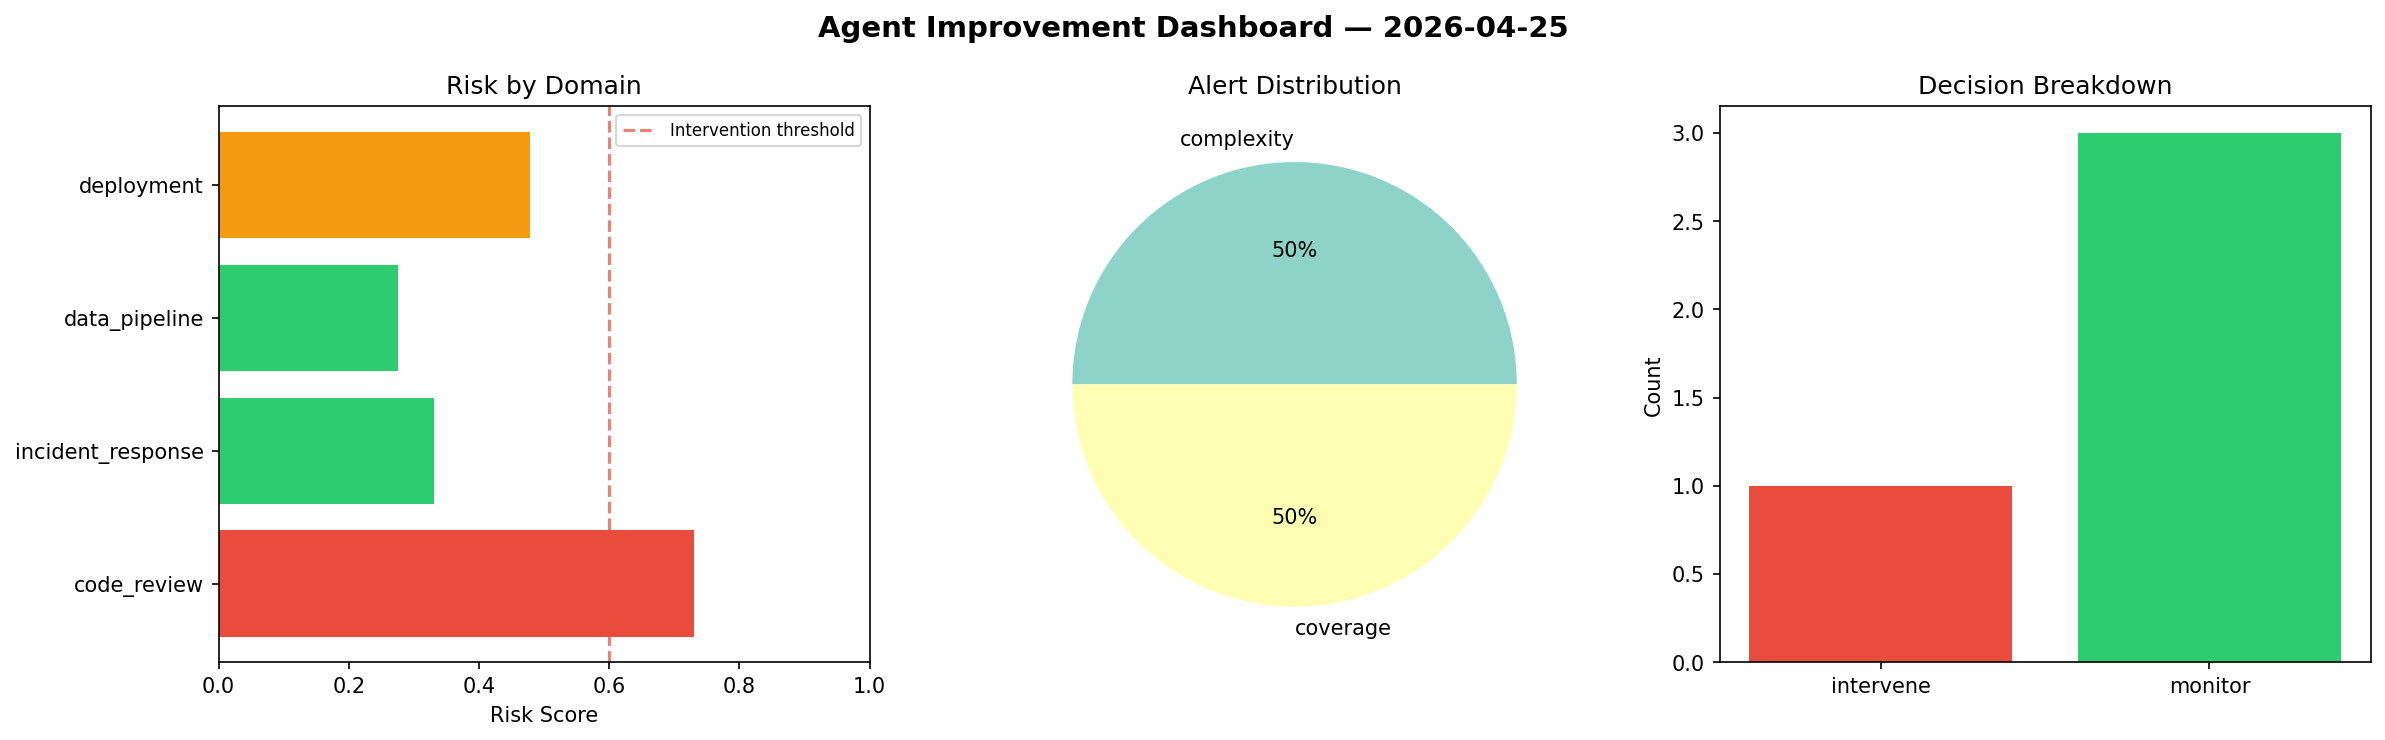
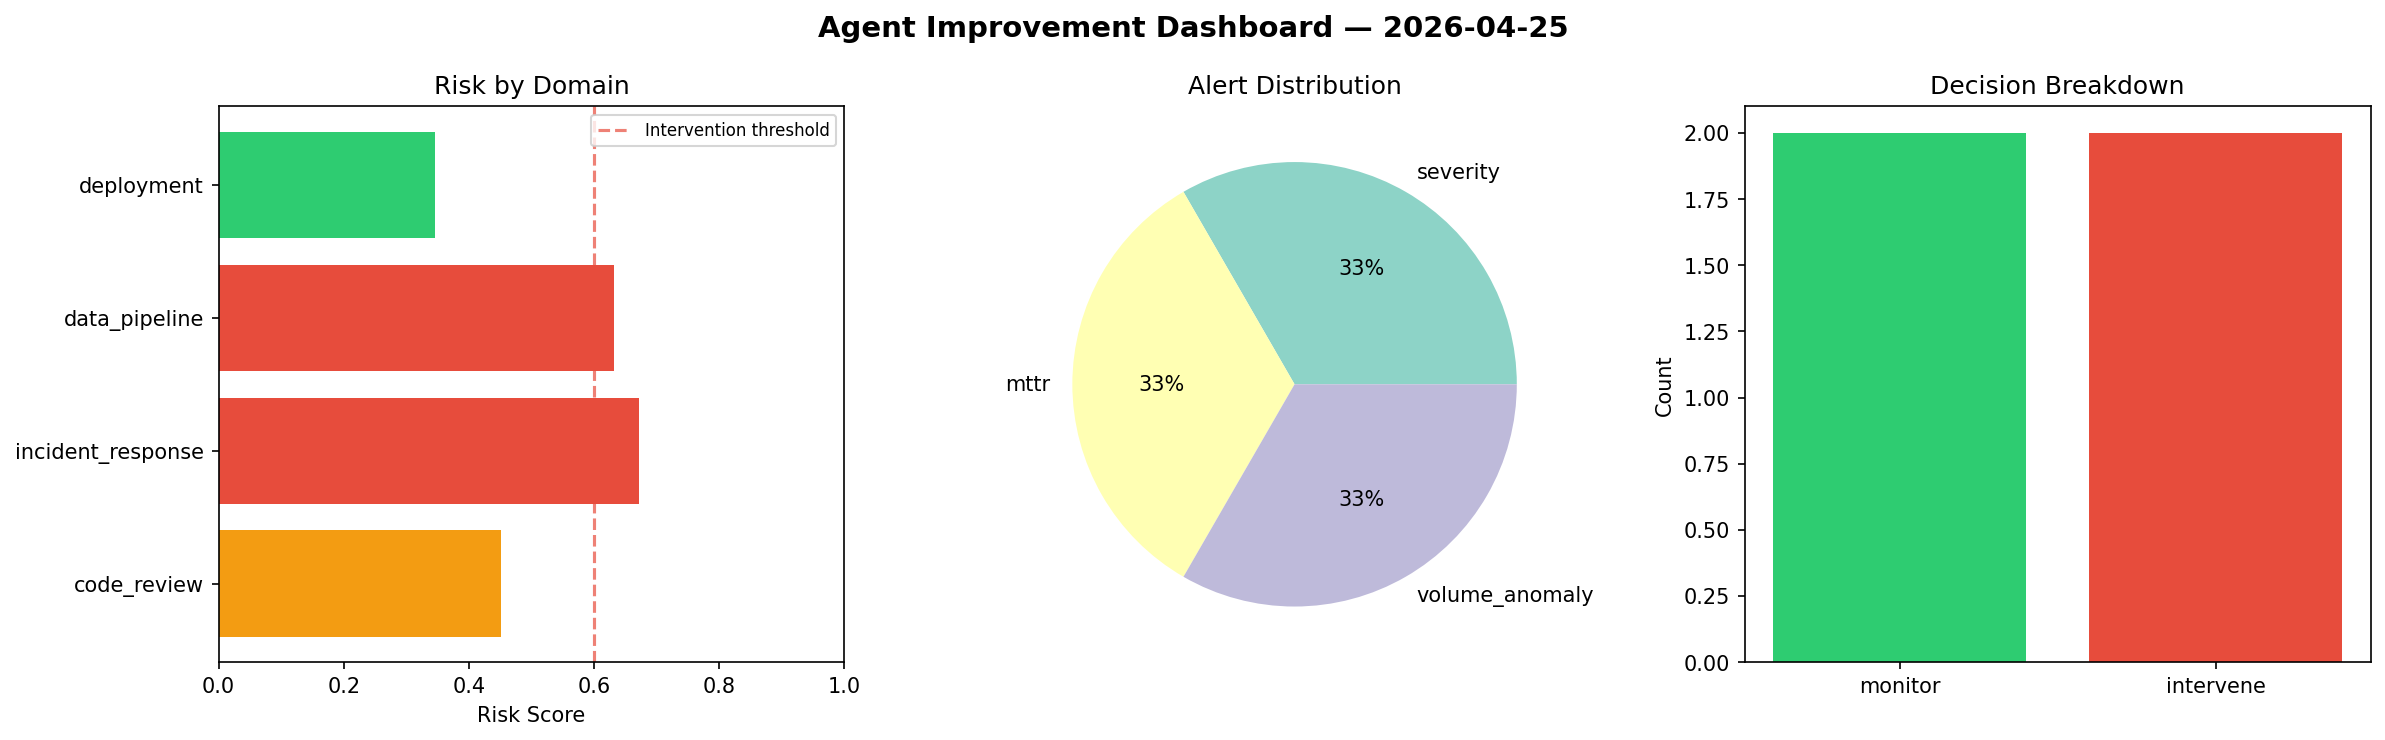
agent-improvement: daily cycle 2026-04-25T20:56

diff --git a/logs/2026-04-25.md b/logs/2026-04-25.md
@@ -1,6 +1,6 @@
 # Agent Improvement Report — 2026-04-25
 
-**Cycle ID:** `b862a2e6` | **Avg Risk:** 0.4538 | **Interventions:** 1/4
+**Cycle ID:** `2a559987` | **Avg Risk:** 0.5254 | **Interventions:** 2/4
 
 ![Dashboard](2026-04-25_dashboard.png)
 
@@ -10,18 +10,18 @@
 
 | Domain | Risk Score | Decision | Alerts |
 |--------|-----------|----------|--------|
-| code_review | 0.7302 | intervene | complexity, coverage |
-| incident_response | 0.3316 | monitor | none |
-| data_pipeline | 0.2749 | monitor | none |
-| deployment | 0.4787 | monitor | none |
+| code_review | 0.4513 | monitor | none |
+| incident_response | 0.6719 | intervene | severity, mttr |
+| data_pipeline | 0.6323 | intervene | volume_anomaly |
+| deployment | 0.3463 | monitor | none |
 
 ## Delta vs Yesterday
 
 | Domain | Today | Yesterday | Change |
 |--------|-------|-----------|--------|
-| code_review | 0.7302 | 0.6301 | 📈 15.9% |
-| incident_response | 0.3316 | 0.2648 | 📈 25.2% |
-| data_pipeline | 0.2749 | 0.2794 | 📉 -1.6% |
-| deployment | 0.4787 | 0.3995 | 📈 19.8% |
+| code_review | 0.4513 | 0.6301 | 📉 -28.4% |
+| incident_response | 0.6719 | 0.2648 | 📈 153.7% |
+| data_pipeline | 0.6323 | 0.2794 | 📈 126.3% |
+| deployment | 0.3463 | 0.3995 | 📉 -13.3% |
 
 **Refinement:** `{'adjustment': 'maintain', 'trend': 'improving', 'window': 4}`
